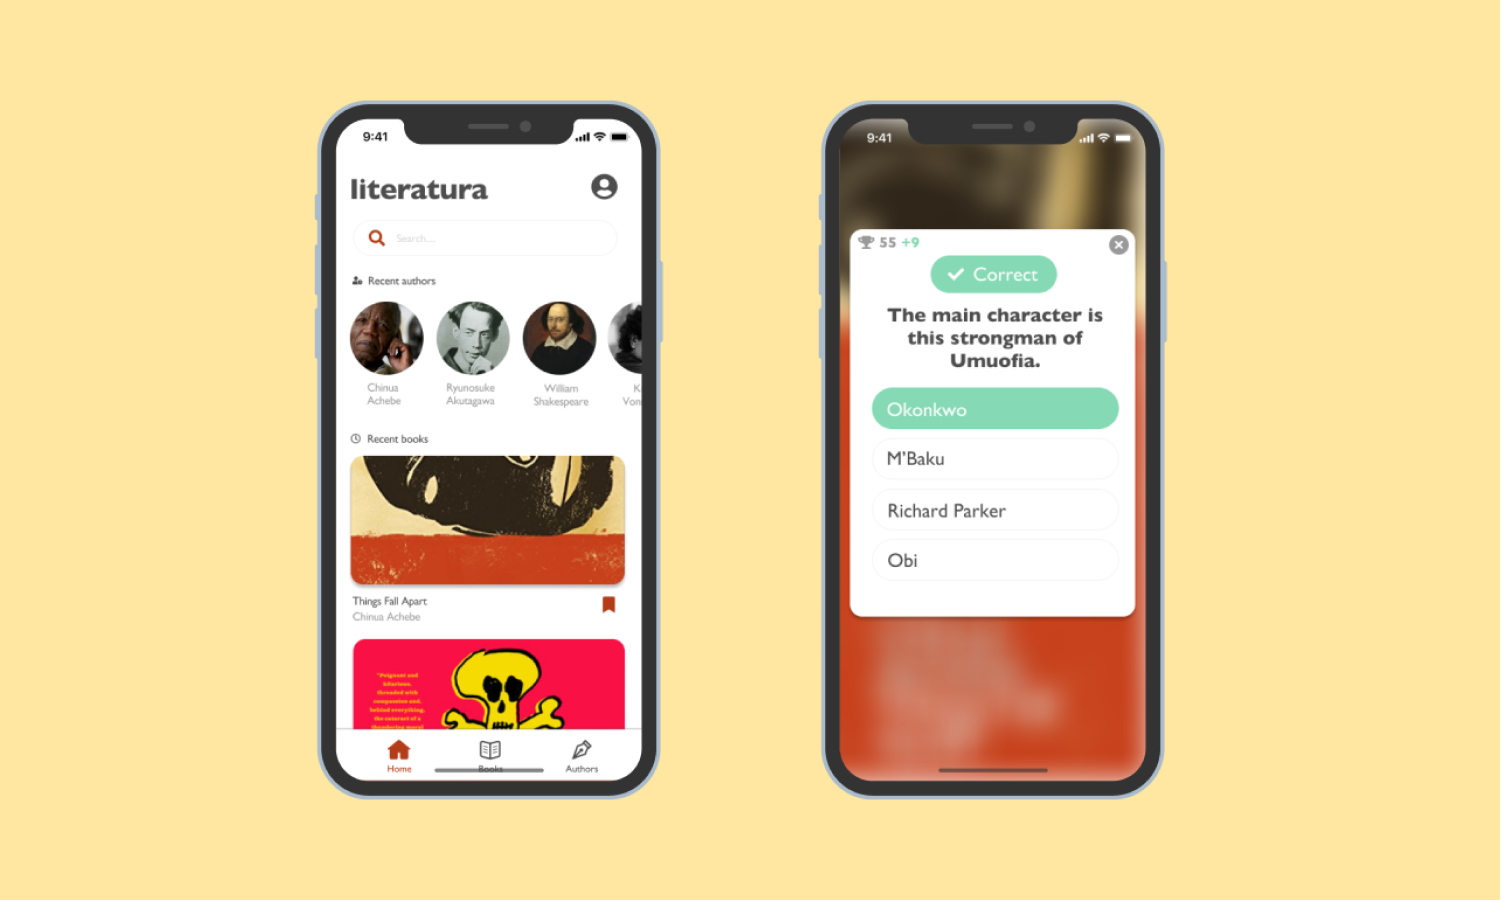
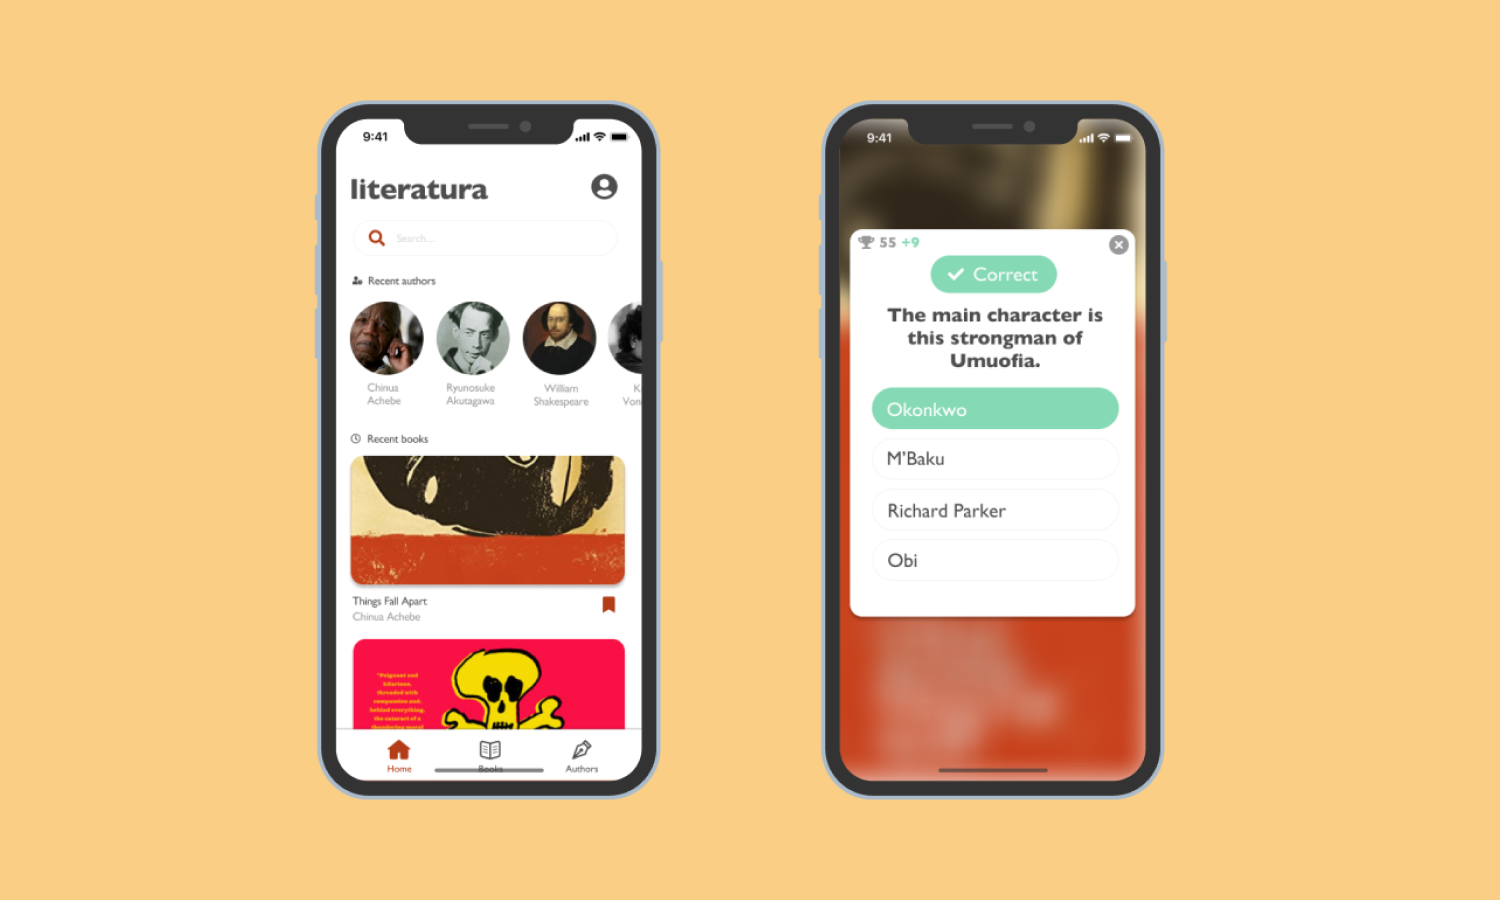
this is a lot of changes

diff --git a/index.html b/index.html
@@ -37,9 +37,7 @@
     <div class="content-wrapperabout">
       <div class="main-header">
         <div class="header-text">
-          <h1><div class="animated delay-0.2s fadeInDown">Hi there, I'm <span class="hovertext1 epic1"><a href="about.html">Tim.</a>
-          </span><img style="width: 250px; height: 160px; will-change: opacity, transform;" class="hoverimage1" src="images/A8B8130F-1163-46D3-926E-43544617B6A0.JPG"/><br><br>
-            I'm an engineering student at the <span class="hovertext1"><a href="https://uwaterloo.ca/systems-design-engineering/about-systems-design-engineering/what-systems-design-engineering">
+          <h1><div class="animated delay-0.2s fadeInDown">Hi there, I'm <span class="hovertext1 epic1"><a href="about.html">Tim</a></span>. I'm an engineering student at the <span class="hovertext1"><a href="https://uwaterloo.ca/systems-design-engineering/about-systems-design-engineering/what-systems-design-engineering">
               University of Waterloo</a></span>.
             Most recently, I was designing at <span class="hovertext1"><a href="https://plangrid.design">
             PlanGrid (Autodesk)</a></span> in San Francisco.

diff --git a/css/styles.css b/css/styles.css
@@ -100,7 +100,7 @@ body {
 }
 
 .landing {
-  background-color: #ffe7a1;
+  background-color: #fbce85;
   color:#000;
 }
 
@@ -153,7 +153,7 @@ a:active { text-decoration: none; color: #19214d79}
   margin-top: 8%;
   width: 100%;
   margin-bottom: 8%;
-  /* position: fixed; */
+  position: relative;
 }
 
 .rectangle {
@@ -174,7 +174,8 @@ a:active { text-decoration: none; color: #19214d79}
   float: left;
 
   line-height: 23px;
-  font-size:24px;
+  font-weight: bold;
+  font-size:18px;
   letter-spacing: 0.025vw;
 
   font-family: 'HKGrotesk';
@@ -206,7 +207,7 @@ footer{
 }
 
 h1{
-  font-size: 2.4em;
+  font-size: 2.8em;
   text-align:left;
   line-height: 140%;
 }
@@ -514,8 +515,8 @@ iframe{
 
 .hoverimage {
     position: absolute;
-    right: 17.5vw;
-    top: 68vh;
+    right: 0;
+    top: 5%;
     /* transform: translate(-50%, -50%); */
     z-index: -1;
     /* pointer-events: none;

diff --git a/css/mobile.css b/css/mobile.css
@@ -92,7 +92,7 @@ body {
 }
 
 .landing {
-  background-color: #ffe7a1;
+  background-color: #fbce85;
   color:#000;
 }
 
@@ -196,7 +196,7 @@ footer{
 }
 
 h1{
-  font-size: 4.5em;
+  font-size: 5em;
   text-align:left;
   line-height: 140%;
 }
